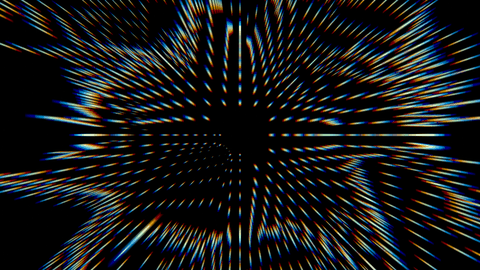
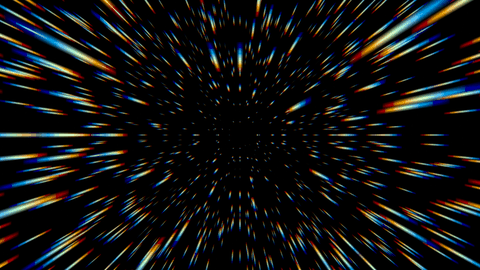
Restored shaders: drop wave_propagation; Interstellar hashes its noise
- wave_propagation is the 3.x experimental water demo that Water Ripple
  Windows supersedes. Without a click it renders the still wallpaper
  (mean frame change 1/255). Removed; a 3.x selection maps to Water
  Ripple Windows.
- Interstellar reads one random vec4 per integer cell from Shadertoy's
  256x256 RGBA noise. The bundled 96x96 noise, linearly filtered at that
  scale, correlates neighbouring cells and left blotchy empty regions in
  the starfield. An integer hash replaces the texture.

diff --git a/package/contents/ui/ShaderSystem.qml b/package/contents/ui/ShaderSystem.qml
@@ -49,8 +49,9 @@ Item {
     // Shader Wallpaper 3.x stored compiled Qt shaders: "Shaders6/<Name>.frag.qsb"
     // or an absolute .qsb path. Returns the bundled 4.x shader of the same base
     // name, "" for none (bundled default), null for a path that is not 3.x.
-    // 3.x base names that 4.x ships rewritten under another name:
-    readonly property var _legacyQsbRenames: ({ "clouds": "2d_clouds", "dvd": "dvd_bounce", "ps3menu": "ps3_home" })
+    // 3.x base names that 4.x ships rewritten or superseded under another name:
+    readonly property var _legacyQsbRenames: ({ "clouds": "2d_clouds", "dvd": "dvd_bounce", "ps3menu": "ps3_home",
+                                                "wave_propagation": "water_ripple_windows" })
     function _legacyQsbTarget(path) {
         const match = /([^\/]+)\.frag\.qsb$/i.exec(path)
         if (!match) return null
